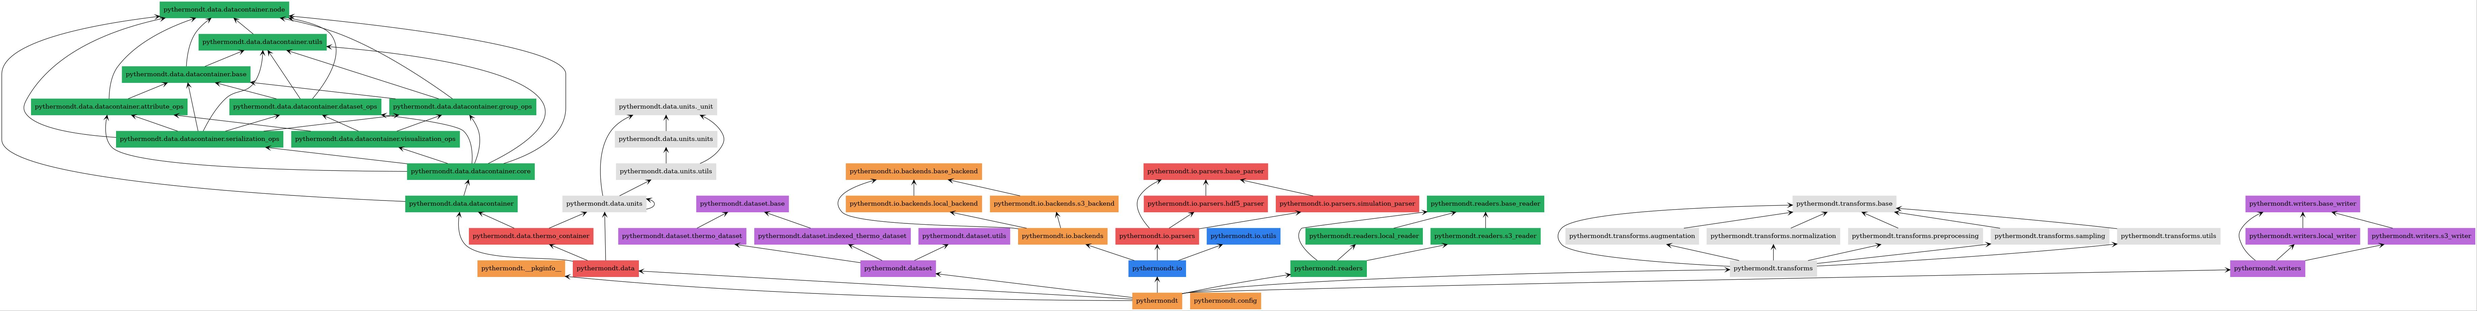
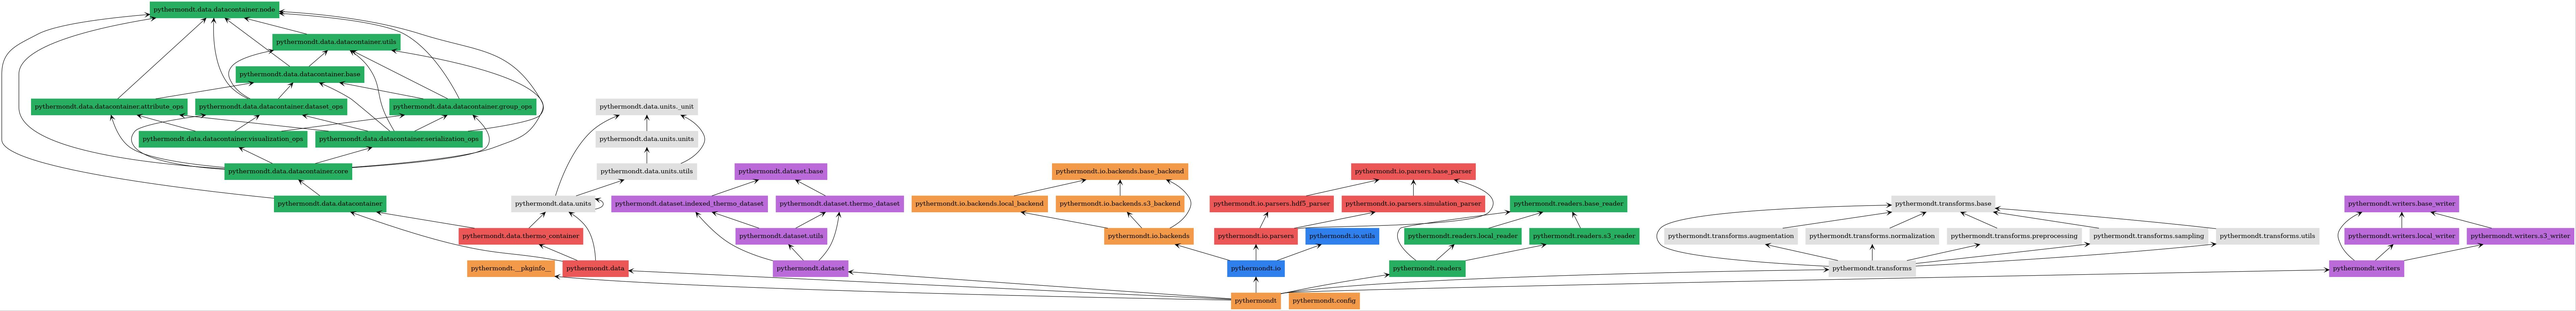
Make DataContainer pickleable by moving NodeAccessor out of inner class (#128)
* Move innerclass in preperation to make the datacontainer pickleable

* Add tests for pickling and unpickling of the DataContainer

* Update pyreverse diagrams

---------

diff --git a/src/pythermondt/data/datacontainer/base.py b/src/pythermondt/data/datacontainer/base.py
@@ -10,121 +10,120 @@ NodeTypes = RootNode | GroupNode | DataNode
 T = TypeVar("T", bound=NodeTypes)
 
 
-class DataContainerBase:
-    # Inner class to access nodes in the DataContainer ==> Needed to make the node property indexable and callable
-    class __NodeAccessor:
-        def __init__(self):
-            self.__nodes: dict[str, NodeTypes] = {}
+# Custom class to access nodes in the DataContainer ==> Needed to make the node property indexable and callable
+class NodeAccessor:
+    def __init__(self):
+        self.__nodes: dict[str, NodeTypes] = {}
 
-        # Functions to get views of the __nodes dictionary
-        def keys(self) -> KeysView[str]:
-            return self.__nodes.keys()
+    # Functions to get views of the __nodes dictionary
+    def keys(self) -> KeysView[str]:
+        return self.__nodes.keys()
 
-        def values(self) -> ValuesView[NodeTypes]:
-            return self.__nodes.values()
+    def values(self) -> ValuesView[NodeTypes]:
+        return self.__nodes.values()
 
-        def items(self) -> ItemsView[str, NodeTypes]:
-            return self.__nodes.items()
+    def items(self) -> ItemsView[str, NodeTypes]:
+        return self.__nodes.items()
 
-        # Private methods to get, set and delete nodes
-        @overload
-        def __get_node(self, key: str) -> NodeTypes: ...
+    # Private methods to get, set and delete nodes
+    @overload
+    def __get_node(self, key: str) -> NodeTypes: ...
 
-        @overload
-        def __get_node(self, key: str, *node_types: type[T]) -> T: ...
+    @overload
+    def __get_node(self, key: str, *node_types: type[T]) -> T: ...
 
-        def __get_node(self, key: str, *node_types: type[T]) -> NodeTypes | T:
-            # Check if the path exists
-            if key not in self.__nodes:
-                raise KeyError(f"Node at path '{key}' does not exist.")
+    def __get_node(self, key: str, *node_types: type[T]) -> NodeTypes | T:
+        # Check if the path exists
+        if key not in self.__nodes:
+            raise KeyError(f"Node at path '{key}' does not exist.")
 
-            # Optionally check if the node is of the correct type
-            node = self.__nodes[key]
-            if node_types and not isinstance(node, node_types):
-                raise TypeError(f"Node at path '{key}' is not of type: {', '.join([t.__name__ for t in node_types])}.")
-            return node
+        # Optionally check if the node is of the correct type
+        node = self.__nodes[key]
+        if node_types and not isinstance(node, node_types):
+            raise TypeError(f"Node at path '{key}' is not of type: {', '.join([t.__name__ for t in node_types])}.")
+        return node
 
-        def __set_node(self, key: str, value: NodeTypes) -> None:
-            # Block any overwrites by default ==> updating nodes is handled using __get_node
-            # by overriding .data attribute in Node classes
-            if key in self.__nodes:
-                raise KeyError(
-                    f"Node at path '{key}' already exists. Use a different path or delete the existing node."
+    def __set_node(self, key: str, value: NodeTypes) -> None:
+        # Block any overwrites by default ==> updating nodes is handled using __get_node
+        # by overriding .data attribute in Node classes
+        if key in self.__nodes:
+            raise KeyError(f"Node at path '{key}' already exists. Use a different path or delete the existing node.")
+
+        # Special handling for root nodes
+        if isinstance(value, RootNode):
+            if key != "/":
+                raise ValueError("RootNode must be placed at the root path '/'.")
+
+            if "/" in self.__nodes:
+                raise ValueError(
+                    "RootNode already exists in the DataContainer. RootNode must be unique for each DataContainer."
                 )
 
-            # Special handling for root nodes
-            if isinstance(value, RootNode):
-                if key != "/":
-                    raise ValueError("RootNode must be placed at the root path '/'.")
-
-                if "/" in self.__nodes:
-                    raise ValueError(
-                        "RootNode already exists in the DataContainer. RootNode must be unique for each DataContainer."
-                    )
-
-                self.__nodes[key] = value
-                return
-
-            # Split path in parent and child and check if parent exists
-            parent, _ = split_path(key)
-            if parent not in self.__nodes:
-                if parent == "/" and parent not in self.__nodes:
-                    raise KeyError(
-                        "RootNode does not exist in this container. "
-                        "Check container initialization and ensure that a RootNode exists!"
-                    )
-                else:
-                    raise KeyError(f"Parent node at path '{parent}' does not exist.")
-
-            # Also check if parent is a RootNode or GroupNode
-            if not isinstance(self.__nodes[parent], (RootNode, GroupNode)):
-                raise TypeError(f"Parent node at path '{parent}' must be a RootNode or GroupNode.")
-
-            # Set node at path in dictionary
             self.__nodes[key] = value
+            return
 
-        def __delete_node(self, key: str) -> None:
-            # Check if the path exists
-            if key not in self.__nodes:
-                raise KeyError(f"Node at path '{key}' does not exist.")
+        # Split path in parent and child and check if parent exists
+        parent, _ = split_path(key)
+        if parent not in self.__nodes:
+            if parent == "/" and parent not in self.__nodes:
+                raise KeyError(
+                    "RootNode does not exist in this container. "
+                    "Check container initialization and ensure that a RootNode exists!"
+                )
+            else:
+                raise KeyError(f"Parent node at path '{parent}' does not exist.")
 
-            # If it's a group, remove all child nodes as well to avoid orphaned nodes
-            if isinstance(self.__nodes[key], GroupNode):
-                child_keys = [k for k in self.__nodes.keys() if k.startswith(key + "/")]
-                for child_key in child_keys:
-                    del self.__nodes[child_key]
+        # Also check if parent is a RootNode or GroupNode
+        if not isinstance(self.__nodes[parent], (RootNode, GroupNode)):
+            raise TypeError(f"Parent node at path '{parent}' must be a RootNode or GroupNode.")
 
-            del self.__nodes[key]
+        # Set node at path in dictionary
+        self.__nodes[key] = value
 
-        # Overriding the getitem, setitem and delitem methods to access nodes ==> Makes the node property indexable
-        def __getitem__(self, key: str) -> NodeTypes:
+    def __delete_node(self, key: str) -> None:
+        # Check if the path exists
+        if key not in self.__nodes:
+            raise KeyError(f"Node at path '{key}' does not exist.")
+
+        # If it's a group, remove all child nodes as well to avoid orphaned nodes
+        if isinstance(self.__nodes[key], GroupNode):
+            child_keys = [k for k in self.__nodes.keys() if k.startswith(key + "/")]
+            for child_key in child_keys:
+                del self.__nodes[child_key]
+
+        del self.__nodes[key]
+
+    # Overriding the getitem, setitem and delitem methods to access nodes ==> Makes the node property indexable
+    def __getitem__(self, key: str) -> NodeTypes:
+        return self.__get_node(key)
+
+    def __delitem__(self, key: str) -> None:
+        self.__delete_node(key)
+
+    def __setitem__(self, key: str, value: NodeTypes):
+        self.__set_node(key, value)
+
+    # Overriding the call method to access nodes ==> Makes the node property callable like a function
+    @overload
+    def __call__(self, key: str) -> NodeTypes: ...
+
+    @overload
+    def __call__(self, key: str, *node_types: type[T]) -> T: ...
+
+    def __call__(self, key: str, *node_types: type[T]) -> NodeTypes | T:
+        if not node_types:
             return self.__get_node(key)
+        return self.__get_node(key, *node_types)
 
-        def __delitem__(self, key: str) -> None:
-            self.__delete_node(key)
 
-        def __setitem__(self, key: str, value: NodeTypes):
-            self.__set_node(key, value)
-
-        # Overriding the call method to access nodes ==> Makes the node property callable like a function
-        @overload
-        def __call__(self, key: str) -> NodeTypes: ...
-
-        @overload
-        def __call__(self, key: str, *node_types: type[T]) -> T: ...
-
-        def __call__(self, key: str, *node_types: type[T]) -> NodeTypes | T:
-            if not node_types:
-                return self.__get_node(key)
-            return self.__get_node(key, *node_types)
-
+class DataContainerBase:
     def __init__(self):
         if type(self) is DataContainerBase:
             raise TypeError(f"{self.__class__.__name__} is a base class and cannot be instantiated directly.")
-        self.__node_accessor = self.__NodeAccessor()
+        self.__node_accessor = NodeAccessor()
 
     @property
-    def nodes(self) -> __NodeAccessor:
+    def nodes(self) -> NodeAccessor:
         """Property to access nodes in the DataContainer.
 
         This property is indexable and callable to get and set nodes. The path is checked for existence. Optionally the

diff --git a/tests/data/datacontainer/test_serialization_ops.py b/tests/data/datacontainer/test_serialization_ops.py
@@ -1,9 +1,13 @@
 import io
+import pickle
 from typing import Literal
 
 import pytest
+import torch
 
 from pythermondt.data import DataContainer
+
+from ...utils import containers_equal
 
 
 @pytest.mark.parametrize("compression", ["gzip", "lzf"])
@@ -74,3 +78,117 @@ def test_serialize_invalid_hdf5():
     invalid_bytes = io.BytesIO(b"not an hdf5 file")
     with pytest.raises(ValueError, match="The given IOPathWrapper object does not contain a valid HDF5 file."):
         DataContainer(invalid_bytes)
+
+
+@pytest.mark.parametrize("container_fixture", ["empty_container", "filled_container", "complex_container"])
+def test_pickle_serialize_deserialize(container_fixture: str, request: pytest.FixtureRequest):
+    """Test that DataContainer can be pickled and unpickled.
+
+    Parameters:
+        container_fixture: Name of the fixture to test
+        request: Pytest fixture request object to get the fixture
+
+    Tests:
+        1. Pickling DataContainer to bytes
+        2. Unpickling back to DataContainer
+        3. Equality comparison of original and unpickled containers
+    """
+    # Get the container from the fixture
+    original_container = request.getfixturevalue(container_fixture)  # type: DataContainer
+
+    # Pickle the DataContainer
+    pickled_bytes = pickle.dumps(original_container)
+
+    # Check if the pickled data is not empty
+    assert len(pickled_bytes) > 0
+
+    # Unpickle into a new container
+    unpickled_container = pickle.loads(pickled_bytes)
+
+    # Check if the unpickled container is equal to the original container
+    assert containers_equal(unpickled_container, original_container), "Unpickled container does not match original"
+    assert isinstance(unpickled_container, type(original_container)), "Unpickled container type does not match original"
+
+
+@pytest.mark.parametrize("container_fixture", ["empty_container", "filled_container", "complex_container"])
+@pytest.mark.parametrize("protocol", [0, 2, 4, pickle.HIGHEST_PROTOCOL])
+def test_pickle_protocols(container_fixture: str, request: pytest.FixtureRequest, protocol: int):
+    """Test pickling with different pickle protocols.
+
+    Parameters:
+        container_fixture: Name of the fixture to test
+        request: Pytest fixture request object to get the fixture
+        protocol: Pickle protocol version to test
+
+    Tests:
+        Pickling and unpickling with various protocol versions
+    """
+    # Get the container from the fixture
+    original_container = request.getfixturevalue(container_fixture)  # type: DataContainer
+
+    # Pickle with specific protocol
+    pickled_bytes = pickle.dumps(original_container, protocol=protocol)
+
+    # Unpickle
+    unpickled_container = pickle.loads(pickled_bytes)
+
+    # Verify equality
+    assert containers_equal(unpickled_container, original_container), "Unpickled container does not match original"
+    assert isinstance(unpickled_container, type(original_container)), "Unpickled container type does not match original"
+
+
+@pytest.mark.parametrize("container_fixture", ["empty_container", "filled_container", "complex_container"])
+def test_pickle_file_operations(container_fixture: str, request: pytest.FixtureRequest, tmp_path):
+    """Test pickle file save and load operations.
+
+    Parameters:
+        container_fixture: Name of the fixture to test
+        request: Pytest fixture request object to get the fixture
+        tmp_path: Pytest temporary directory fixture
+
+    Tests:
+        1. Saving DataContainer to pickle file
+        2. Loading DataContainer from pickle file
+        3. Equality comparison
+    """
+    # Create temporary file path
+    file_path = tmp_path / "test_container.pkl"
+
+    # Get the container from the fixture
+    original_container = request.getfixturevalue(container_fixture)  # type: DataContainer
+
+    # Save container to pickle file
+    with open(file_path, "wb") as f:
+        pickle.dump(original_container, f)
+
+    # Load container from pickle file
+    with open(file_path, "rb") as f:
+        loaded_container = pickle.load(f)
+
+    # Verify equality
+    assert containers_equal(loaded_container, original_container), "Unpickled container does not match original"
+    assert isinstance(loaded_container, type(original_container)), "Unpickled container type does not match original"
+
+
+def test_pickle_roundtrip_preserves_state():
+    """Test that pickle roundtrip preserves internal state and functionality."""
+    # Create a container with some data
+    container = DataContainer()
+    container.add_group("/", "test_group")
+    container.add_dataset("/test_group", "data", data=torch.tensor([1, 2, 3, 4, 5]))
+    container.add_attribute("/test_group", "description", "test data")
+
+    # Pickle and unpickle
+    pickled_bytes = pickle.dumps(container)
+    unpickled_container = pickle.loads(pickled_bytes)  # type: DataContainer
+
+    # Test that functionality is preserved
+    assert unpickled_container.get_dataset("/test_group/data").tolist() == [1, 2, 3, 4, 5]
+    assert unpickled_container.get_attribute("/test_group", "description") == "test data"
+    assert "/test_group" in unpickled_container.nodes.keys()
+    assert "/test_group/data" in unpickled_container.nodes.keys()
+
+    # Test that we can still modify the unpickled container
+    unpickled_container.add_dataset("/test_group", "new_data", data=torch.tensor([6, 7, 8]))
+    assert "/test_group/new_data" in unpickled_container.nodes.keys()
+    assert unpickled_container.get_dataset("/test_group/new_data").tolist() == [6, 7, 8]
